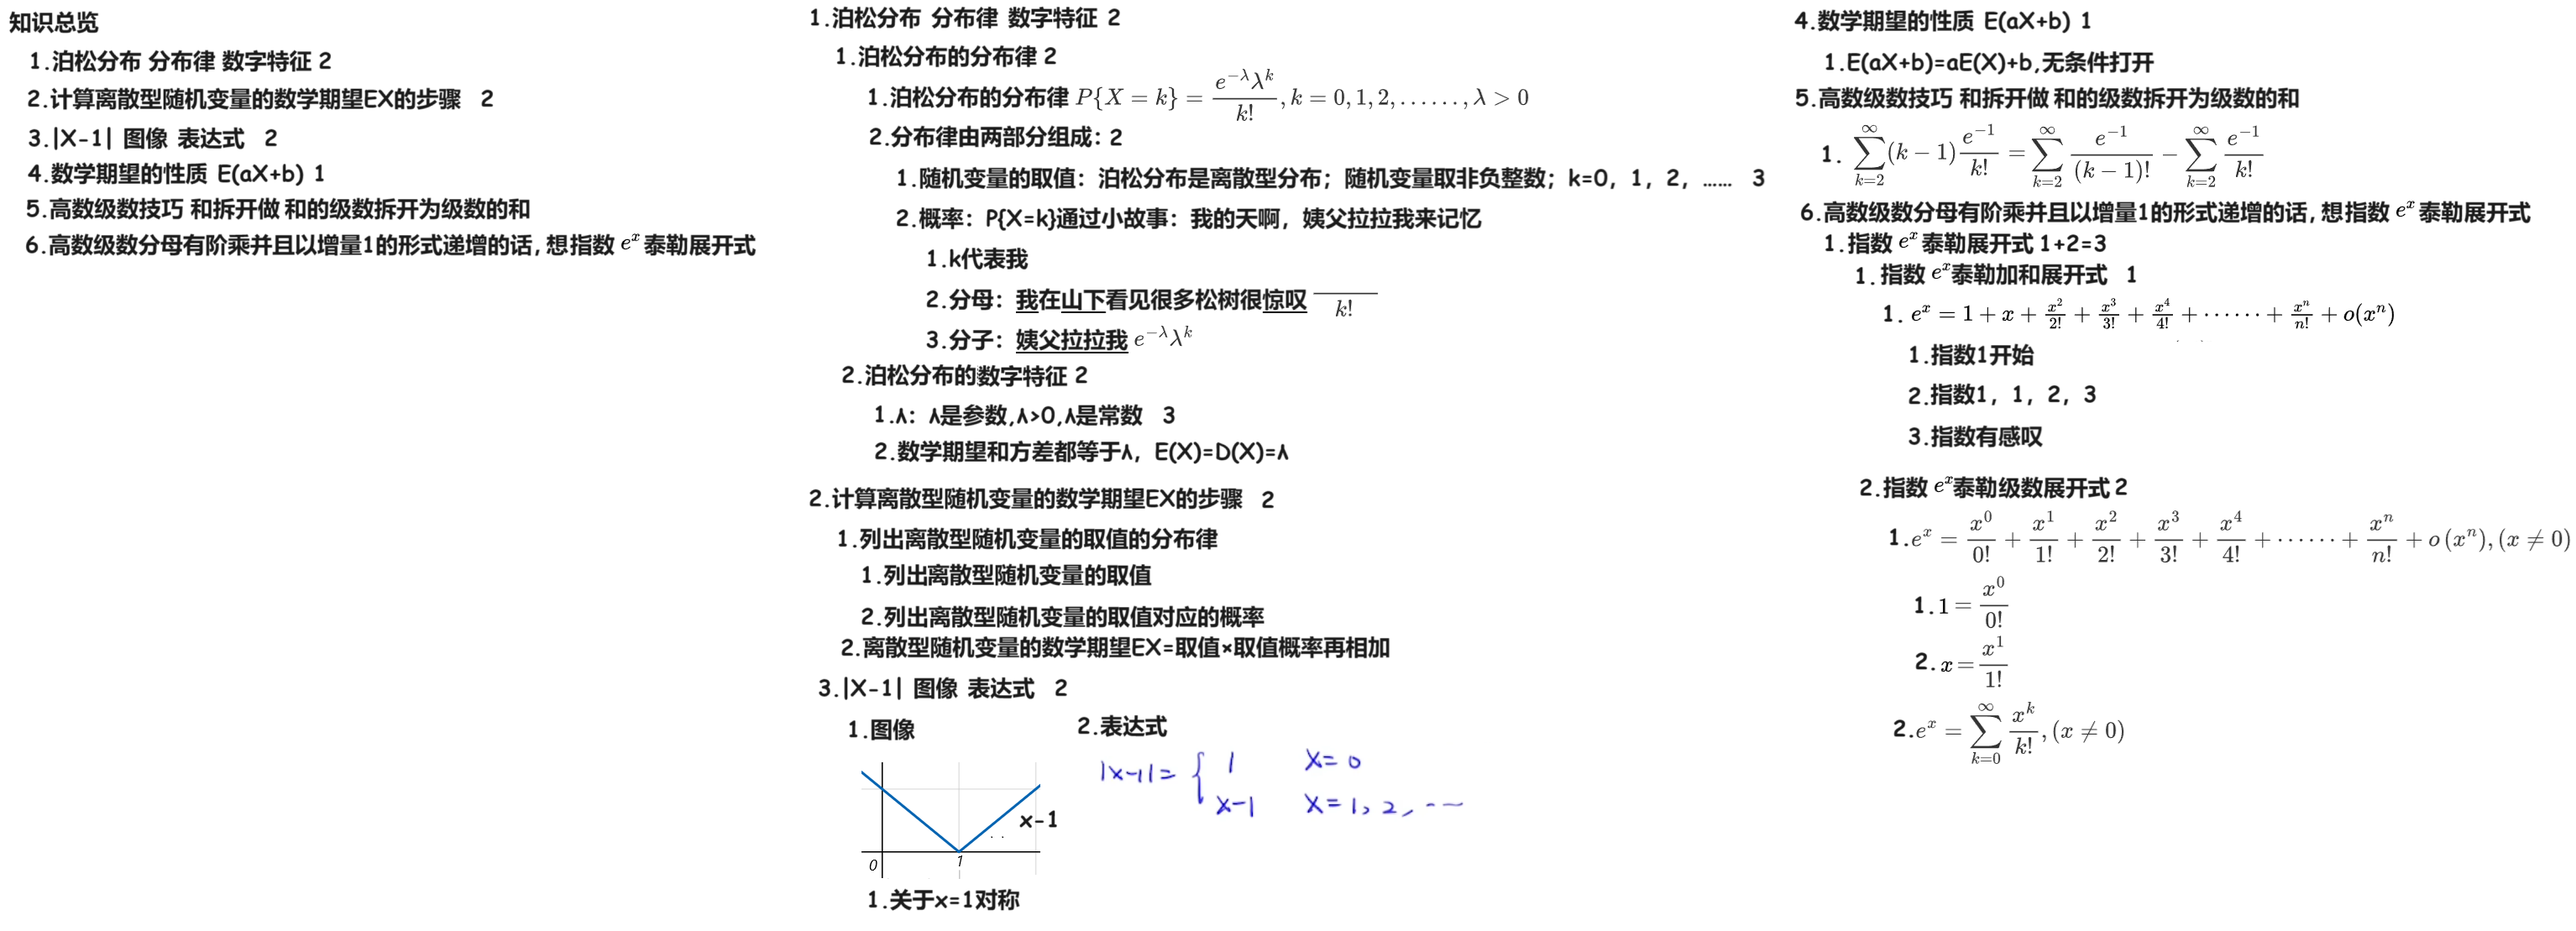
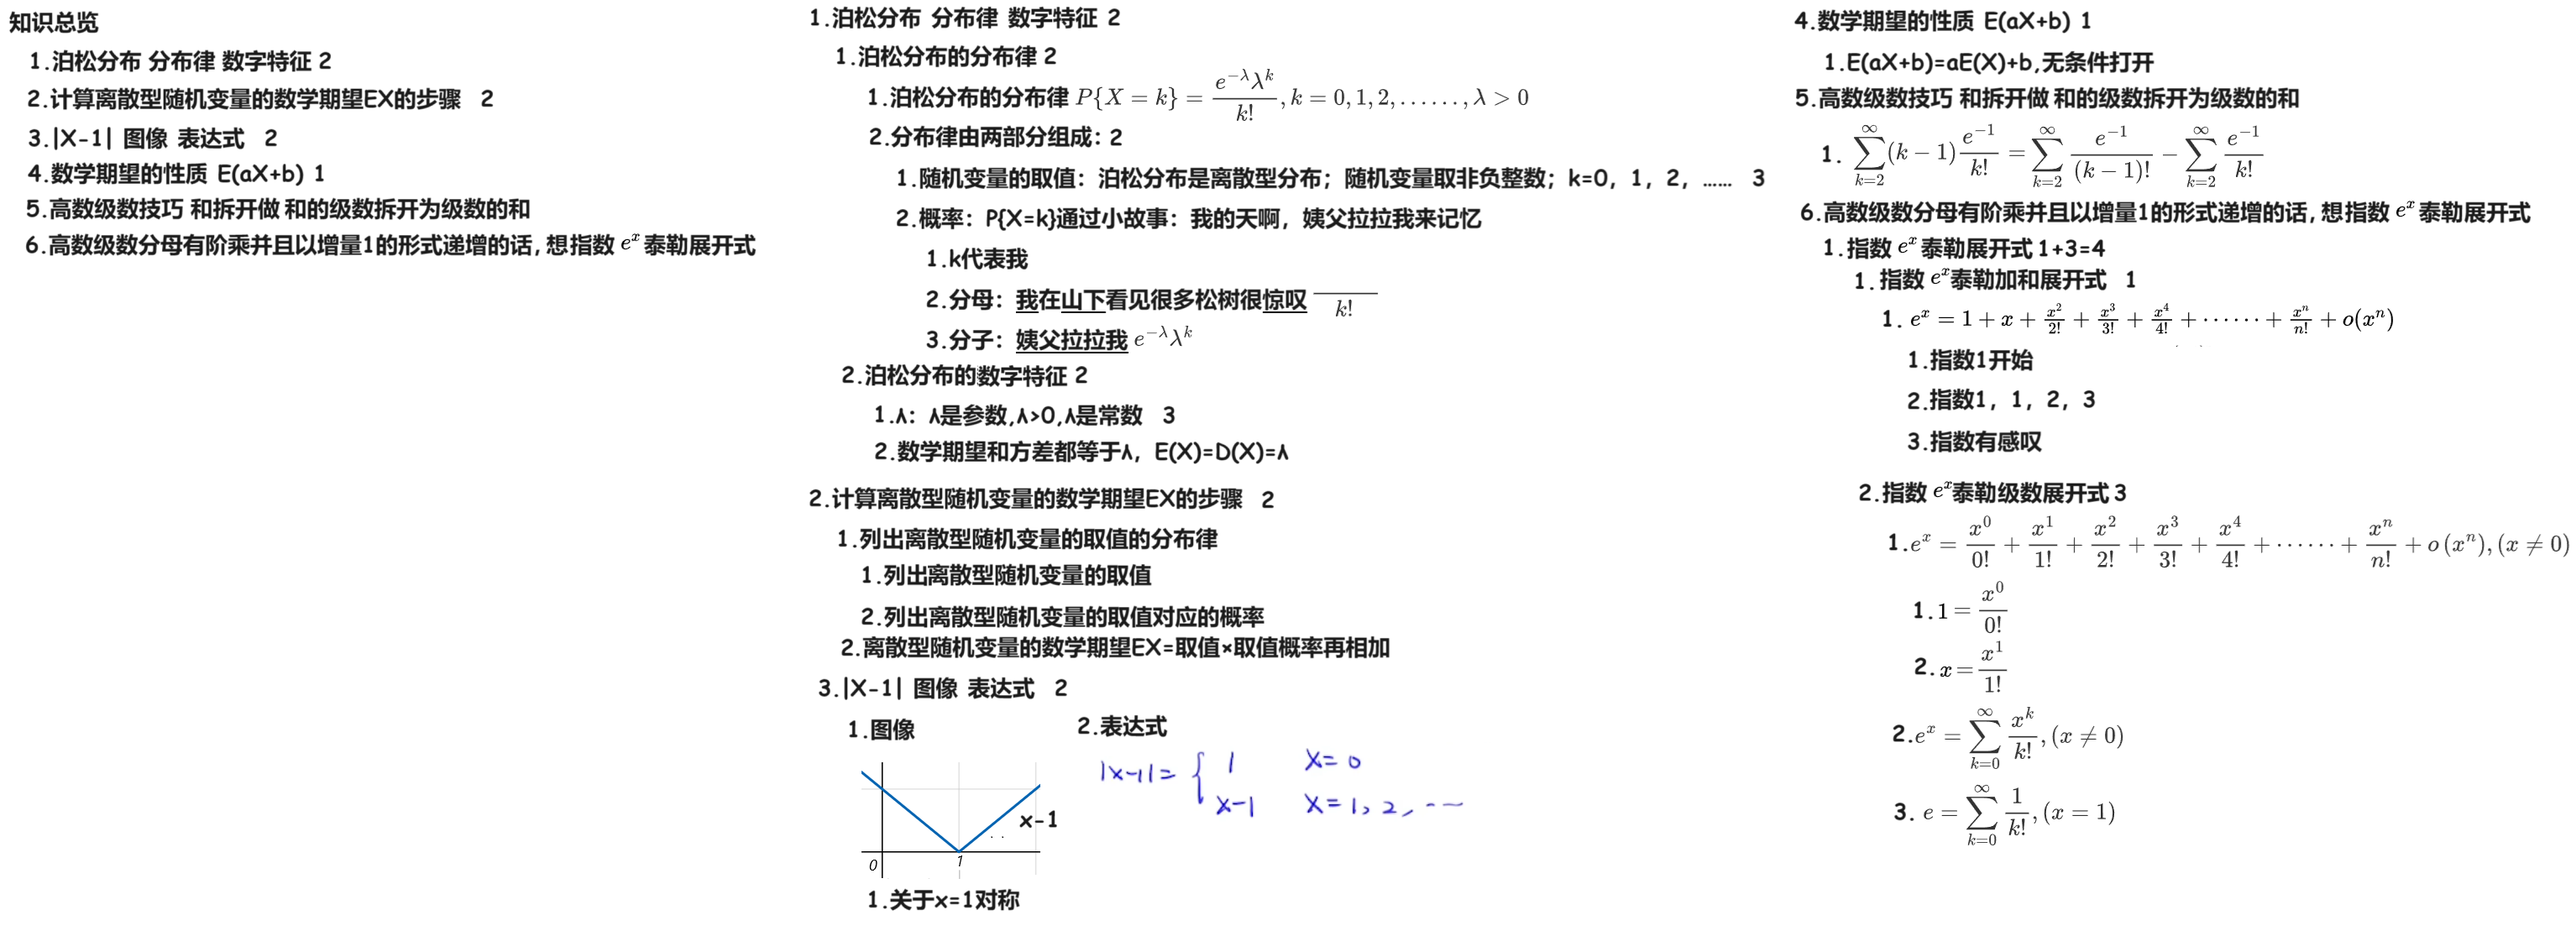
240229

diff --git a/03 概统/01 23/01 小题/01 选择题08 泊松分布 离散型随机变量的数学期望  泰勒公式 级数 240229/02 Doc.md b/03 概统/01 23/01 小题/01 选择题08 泊松分布 离散型随机变量的数学期望  泰勒公式 级数 240229/02 Doc.md
@@ -1,6 +1,6 @@
 # 00 背诵
 
-<img src="https://cvp.oss-cn-shanghai.aliyuncs.com/picgo/202402291638429.png" alt="image-20240229163827158" style="zoom:50%;" />
+<img src="https://cvp.oss-cn-shanghai.aliyuncs.com/picgo/202402291740339.png" alt="image-20240229174020076" style="zoom:50%;" />
 
 
 
